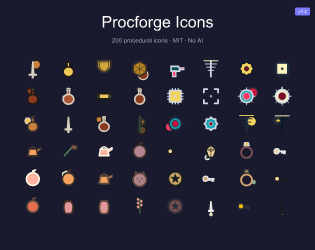
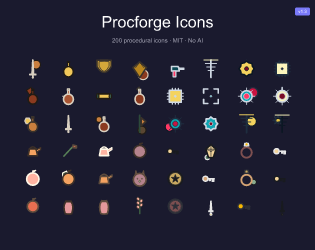
chore: v1.3.0 post-release version-string follow-ups + regenerated covers (#26)
After Path A series (#22 #23 #24 #25) merged, bump the three version strings
that lag the CHANGELOG/ARCHITECTURE updates and regenerate the itch covers
against the new Lucide-aligned baseline.

- scripts/produce-cover.ts: VERSION 'v1.2' → 'v1.3' (cover badge)
- scripts/prelaunch-check.ts: required-tags list adds 'v1.3.0'
- scripts/produce-starter-pack.ts: README header v1.2.0 → v1.3.0
- itch-page/cover-{315x250,630x500}.png: regenerated with v1.3 badge and
  Lucide-aligned primitives (long thin swords, heater shields, cut-diamond
  gems, prominent cat ears, etc.)

After this PR merges:
  git tag v1.3.0
  git push origin v1.3.0
  # release.yml workflow uploads starter-pack.zip + manifest

diff --git a/scripts/produce-starter-pack.ts b/scripts/produce-starter-pack.ts
@@ -82,7 +82,7 @@ ${galleryRows}
 
   await writeFile(
     join(OUT_DIR, 'README.md'),
-    `# Procforge Icons — Starter Pack v1.2.0\n\n200 procedural game icons across 4 themes:\n\n${THEMES.map(
+    `# Procforge Icons — Starter Pack v1.3.0\n\n200 procedural game icons across 4 themes:\n\n${THEMES.map(
       (t) => `- **${t.displayName}** (${ICONS_PER_THEME} icons)`,
     ).join('\n')}\n\nEach icon ships as scalable SVG plus PNG at ${SIZES.join(', ')}px.\n\n## License\nMIT — free for commercial and non-commercial use, attribution appreciated but not required.\n\n## Open-source generator\nhttps://github.com/procforge/icons\n`,
     'utf8',

diff --git a/scripts/produce-cover.ts b/scripts/produce-cover.ts
@@ -8,7 +8,7 @@ import { cozyFarm } from '@procforge/theme-cozy-farm';
 import { roguelikeInventory } from '@procforge/theme-roguelike-inventory';
 
 const OUT_DIR = 'itch-page';
-const VERSION = 'v1.2';
+const VERSION = 'v1.3';
 const BASE_SEED = 'cover';
 const ICONS_PER_THEME = 12;
 const ICON_INTERNAL_SIZE = 64;

diff --git a/scripts/prelaunch-check.ts b/scripts/prelaunch-check.ts
@@ -304,7 +304,7 @@ function checkLicense() {
 
 function checkV1Tag() {
   try {
-    const required = ['v1.0.0', 'v1.1.0', 'v1.2.0'];
+    const required = ['v1.0.0', 'v1.1.0', 'v1.2.0', 'v1.3.0'];
     const tags = execSync('git tag -l', { encoding: 'utf8' })
       .split('\n')
       .map((t) => t.trim())
